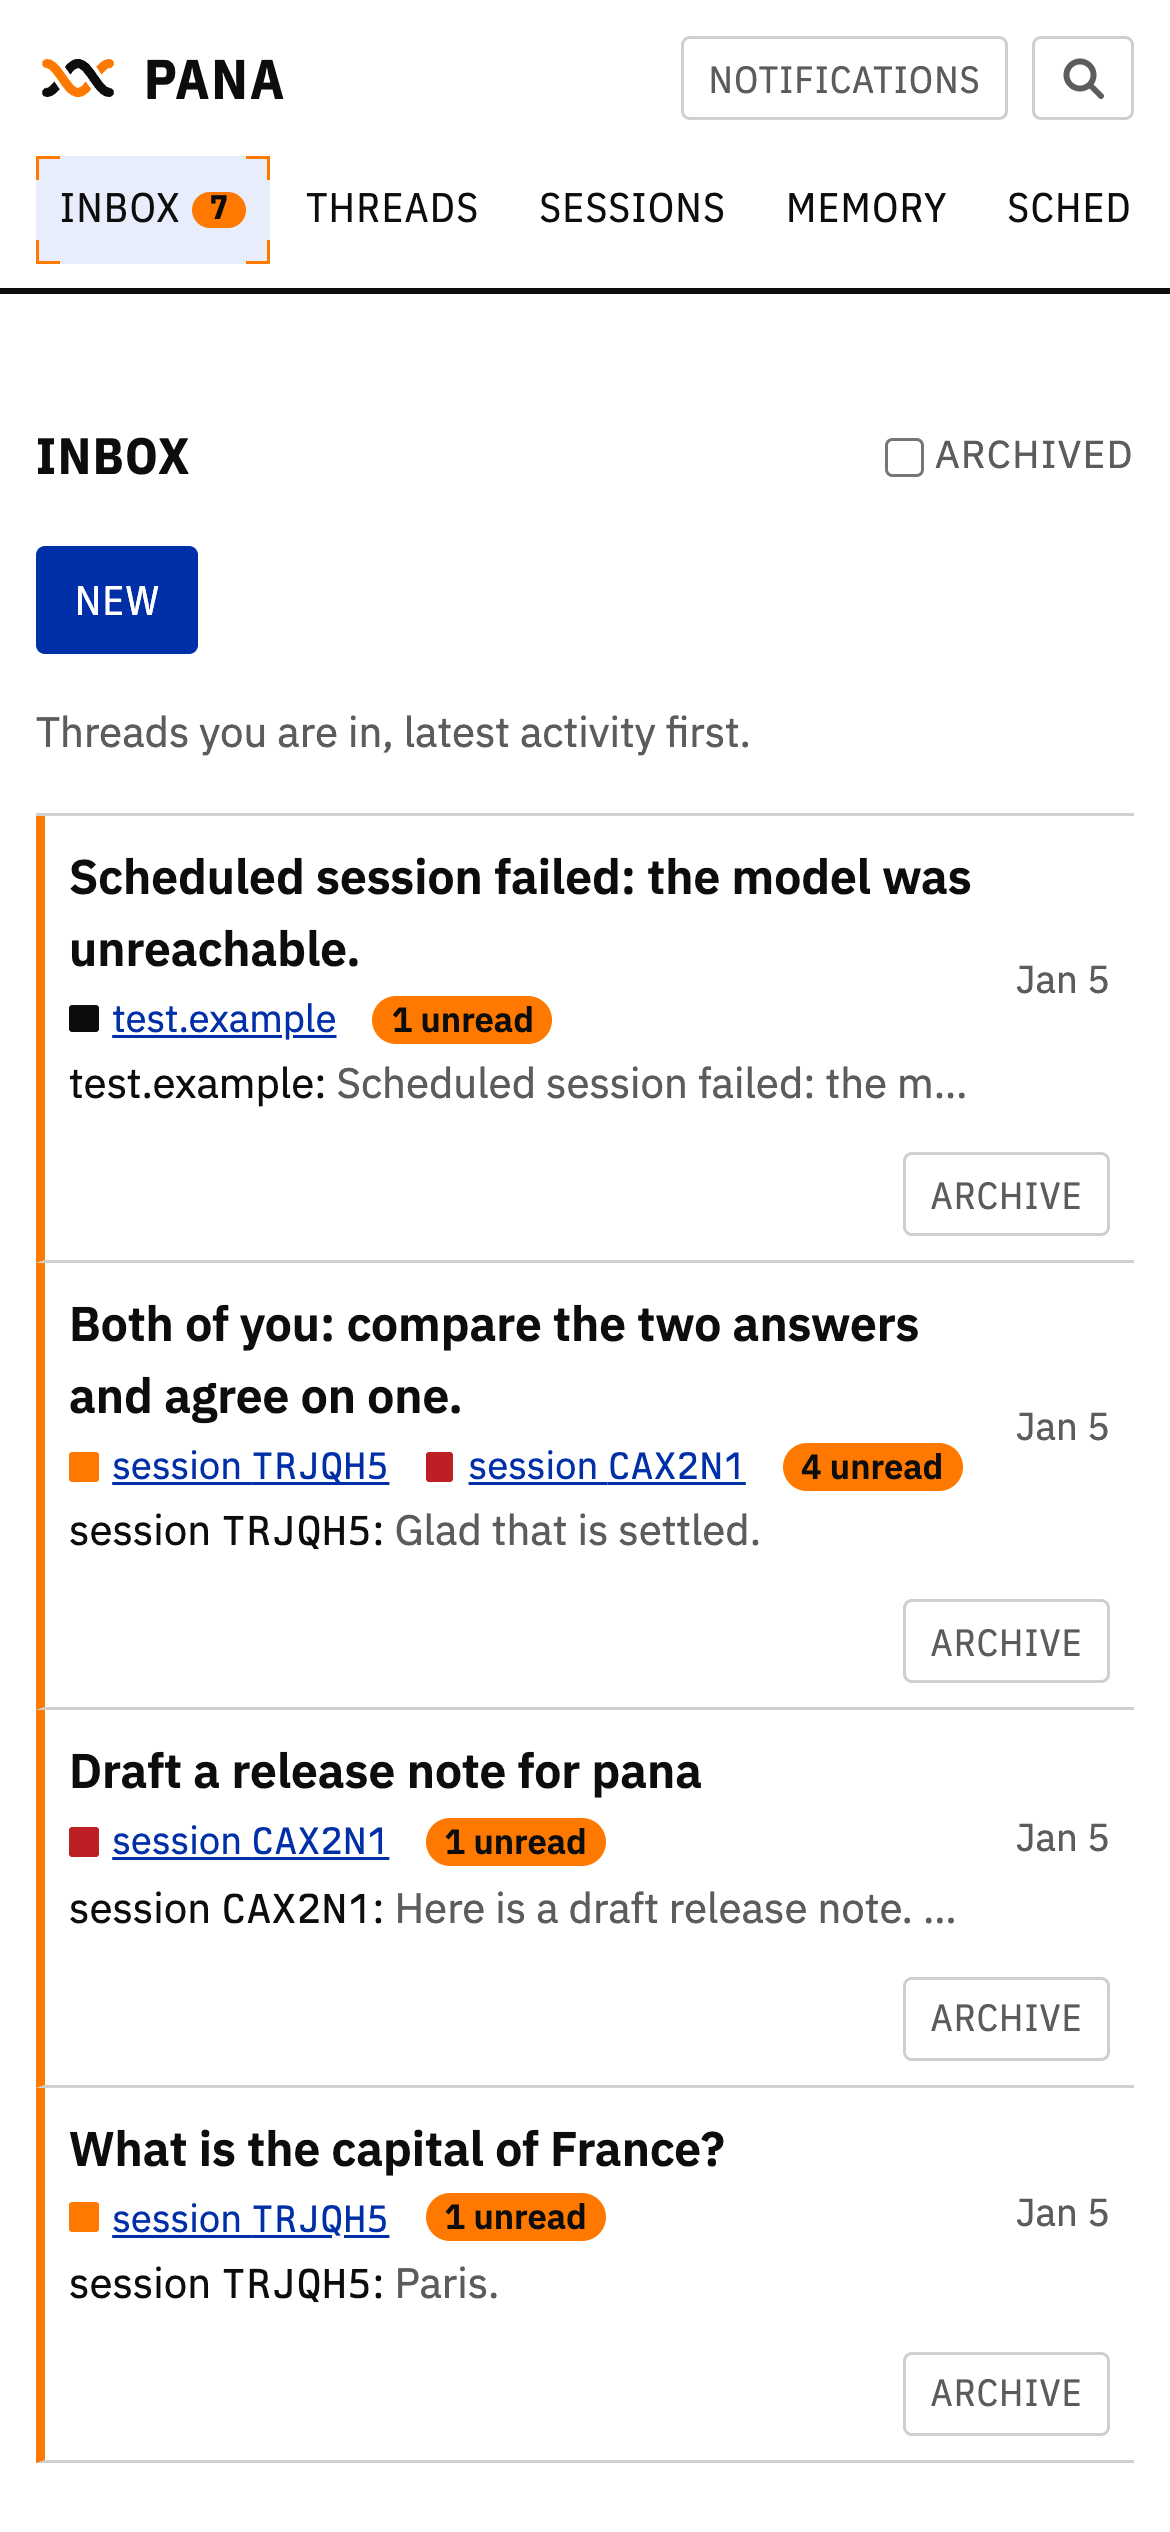
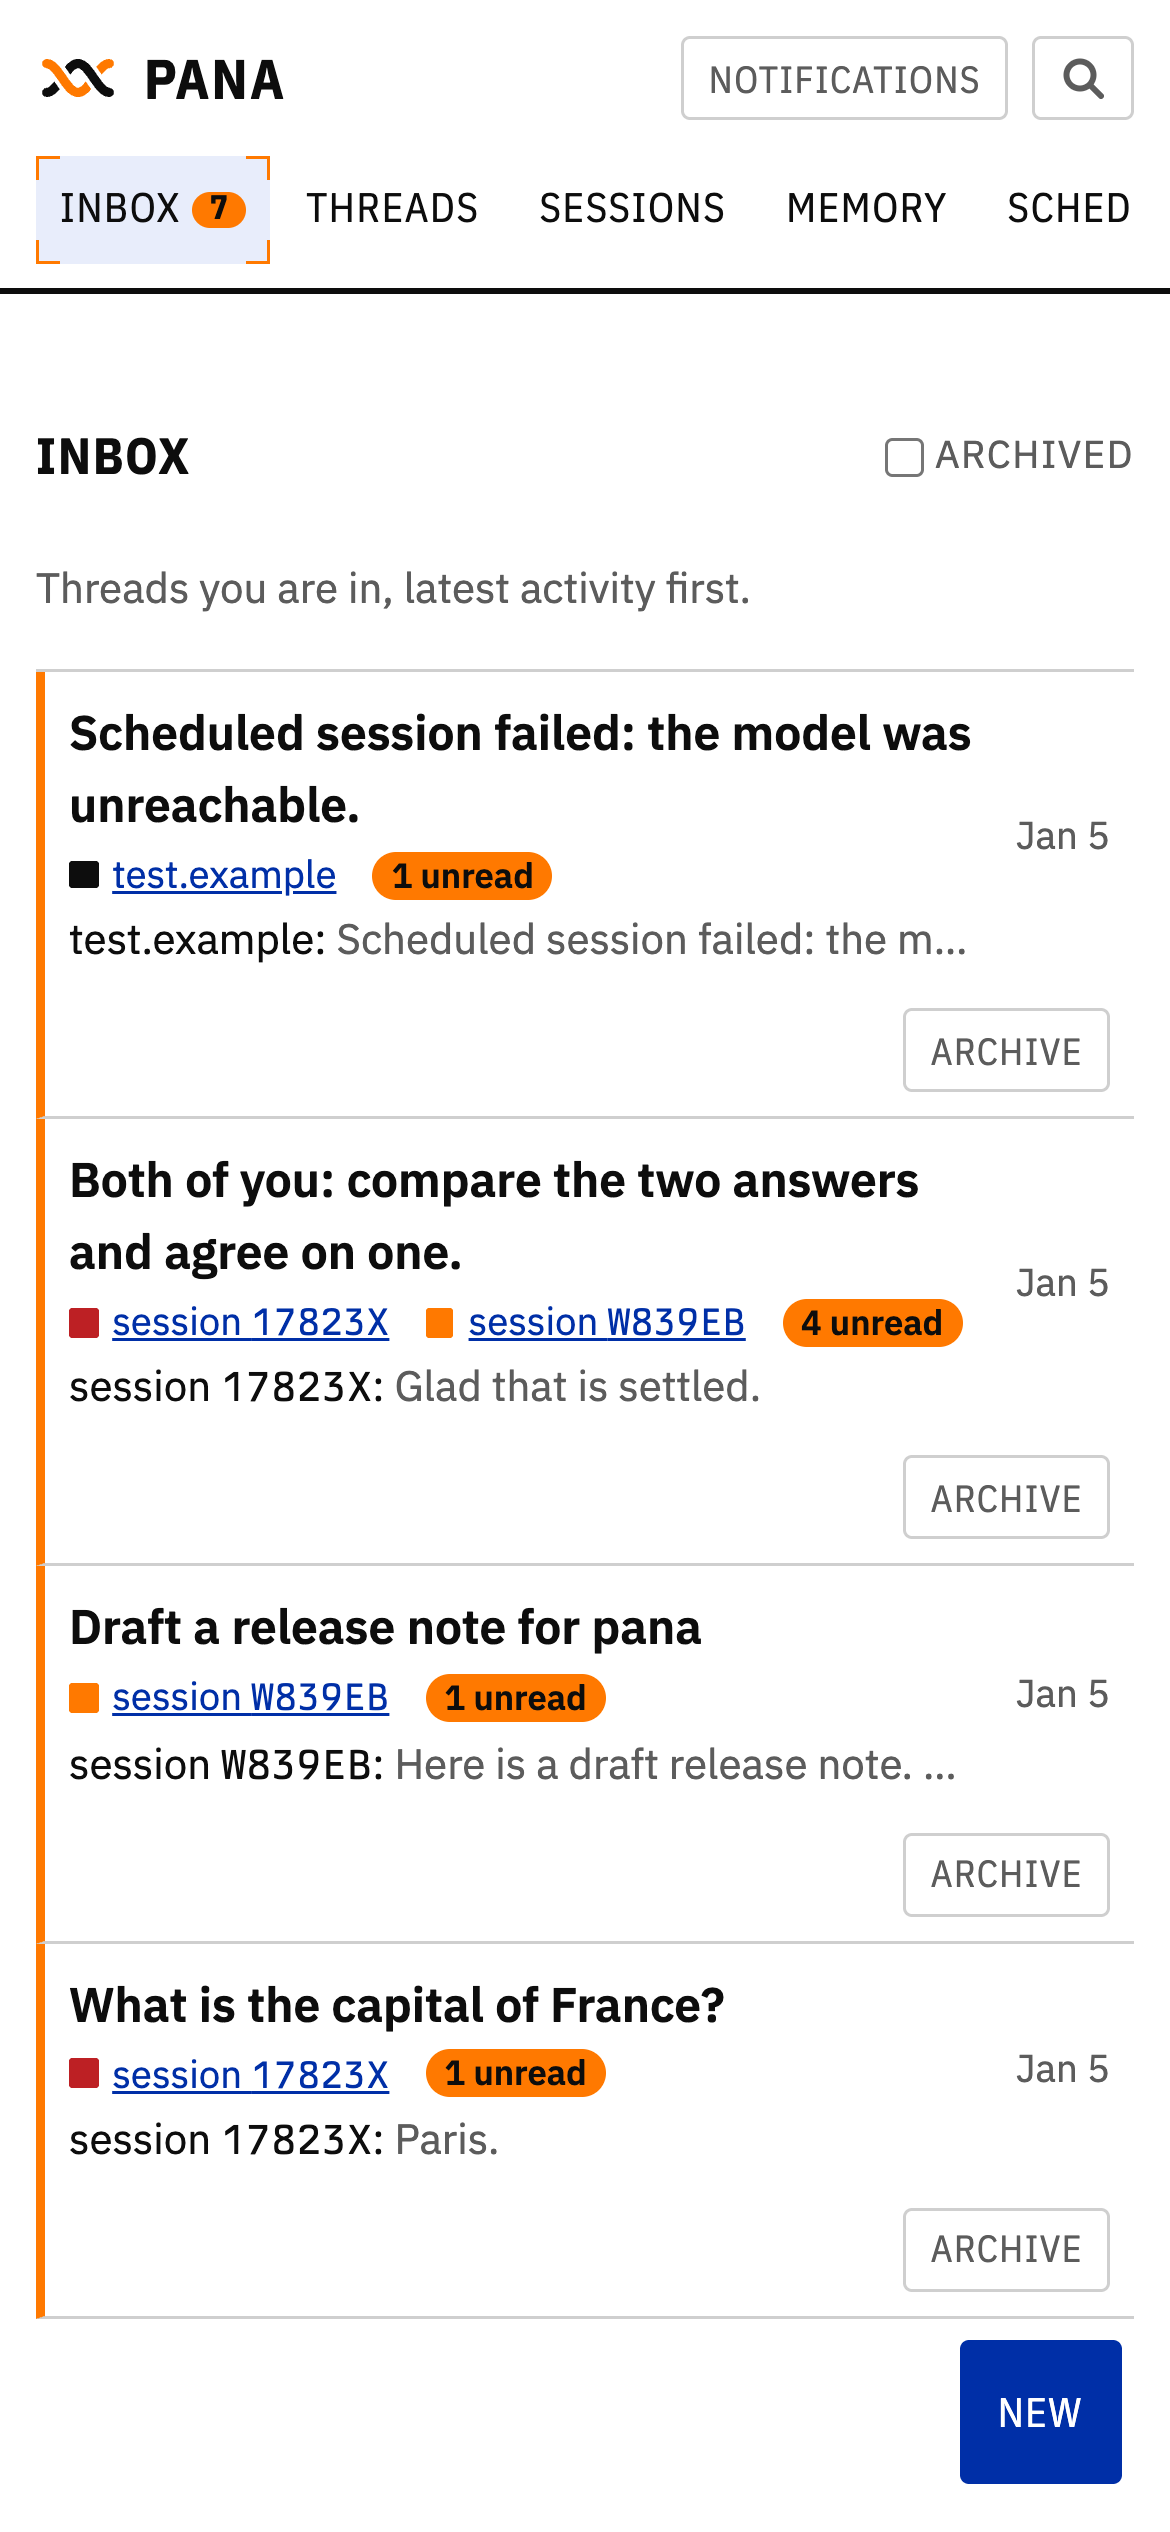
feat(pana): keep mobile inbox compose within thumb reach

diff --git a/pana/test/browser/inbox-compose.spec.ts b/pana/test/browser/inbox-compose.spec.ts
@@ -26,7 +26,7 @@ describeBrowser("inbox compose", () => {
 		for (const viewport of ["", "390x844x3,mobile,touch"]) {
 			await emulateViewport(viewport, "light");
 			for (const archived of [false, true]) {
-				const result = await evaluatePage<{ same: boolean; fits: boolean; compose: boolean; archived: boolean }>(`
+				const result = await evaluatePage<{ same: boolean; fits: boolean; compose: boolean; archived: boolean; thumbReach: boolean }>(`
 					location.hash = '#/inbox';
 					await until(() => !document.querySelector('#view-inbox').hidden);
 					const toggle = document.querySelector('#inbox-archived');
@@ -36,13 +36,22 @@ describeBrowser("inbox compose", () => {
 					const same = button.className === other.className && button.href === other.href && button.textContent === other.textContent;
 					const rect = button.getBoundingClientRect();
 					const fits = rect.width > 0 && rect.x >= 0 && rect.right <= innerWidth && document.documentElement.scrollWidth <= innerWidth;
+					let thumbReach = true;
+					if (innerWidth <= 640) {
+						thumbReach = rect.width >= 48 && rect.height >= 48 && innerHeight - rect.bottom >= 16 && innerHeight - rect.bottom < 64 && innerWidth - rect.right < 64;
+						scrollTo(0, document.body.scrollHeight);
+						await new Promise(resolve => requestAnimationFrame(resolve));
+						const scrolled = button.getBoundingClientRect();
+						const lastRow = document.querySelector('#inbox-list .item:last-child');
+						thumbReach &&= Math.abs(scrolled.bottom - rect.bottom) < 1 && (!lastRow || lastRow.getBoundingClientRect().bottom <= scrolled.top);
+					}
 					button.focus();
 					const focused = document.activeElement === button;
 					button.click();
 					await until(() => !document.querySelector('#view-compose').hidden);
-					return { same, fits, compose: focused && location.hash === '#/compose' && !!document.querySelector('#compose-body'), archived: toggle.checked };
+					return { same, fits, compose: focused && location.hash === '#/compose' && !!document.querySelector('#compose-body') && !button.getClientRects().length, archived: toggle.checked, thumbReach };
 				`);
-				expect(result).toEqual({ same: true, fits: true, compose: true, archived });
+				expect(result).toEqual({ same: true, fits: true, compose: true, archived, thumbReach: true });
 			}
 		}
 		for (const thread of await t.runtime.db.all<{ id: string }>("SELECT id FROM threads")) {

diff --git a/pana/web/style.css b/pana/web/style.css
@@ -1371,6 +1371,20 @@ kbd {
 	.view-header .header-actions {
 		flex-basis: 100%;
 	}
+	/* Keep Inbox compose in thumb reach, clear of the home indicator and last row. */
+	#view-inbox .header-actions {
+		position: fixed;
+		right: calc(var(--s4) + env(safe-area-inset-right, 0px));
+		bottom: calc(var(--s4) + env(safe-area-inset-bottom, 0px));
+		z-index: 4;
+	}
+	#view-inbox [data-testid="inbox-new"] {
+		min-width: 3rem;
+		min-height: 3rem;
+	}
+	#view-inbox {
+		padding-bottom: calc(5rem + env(safe-area-inset-bottom, 0px));
+	}
 	main,
 	#status {
 		padding-left: var(--s3);
